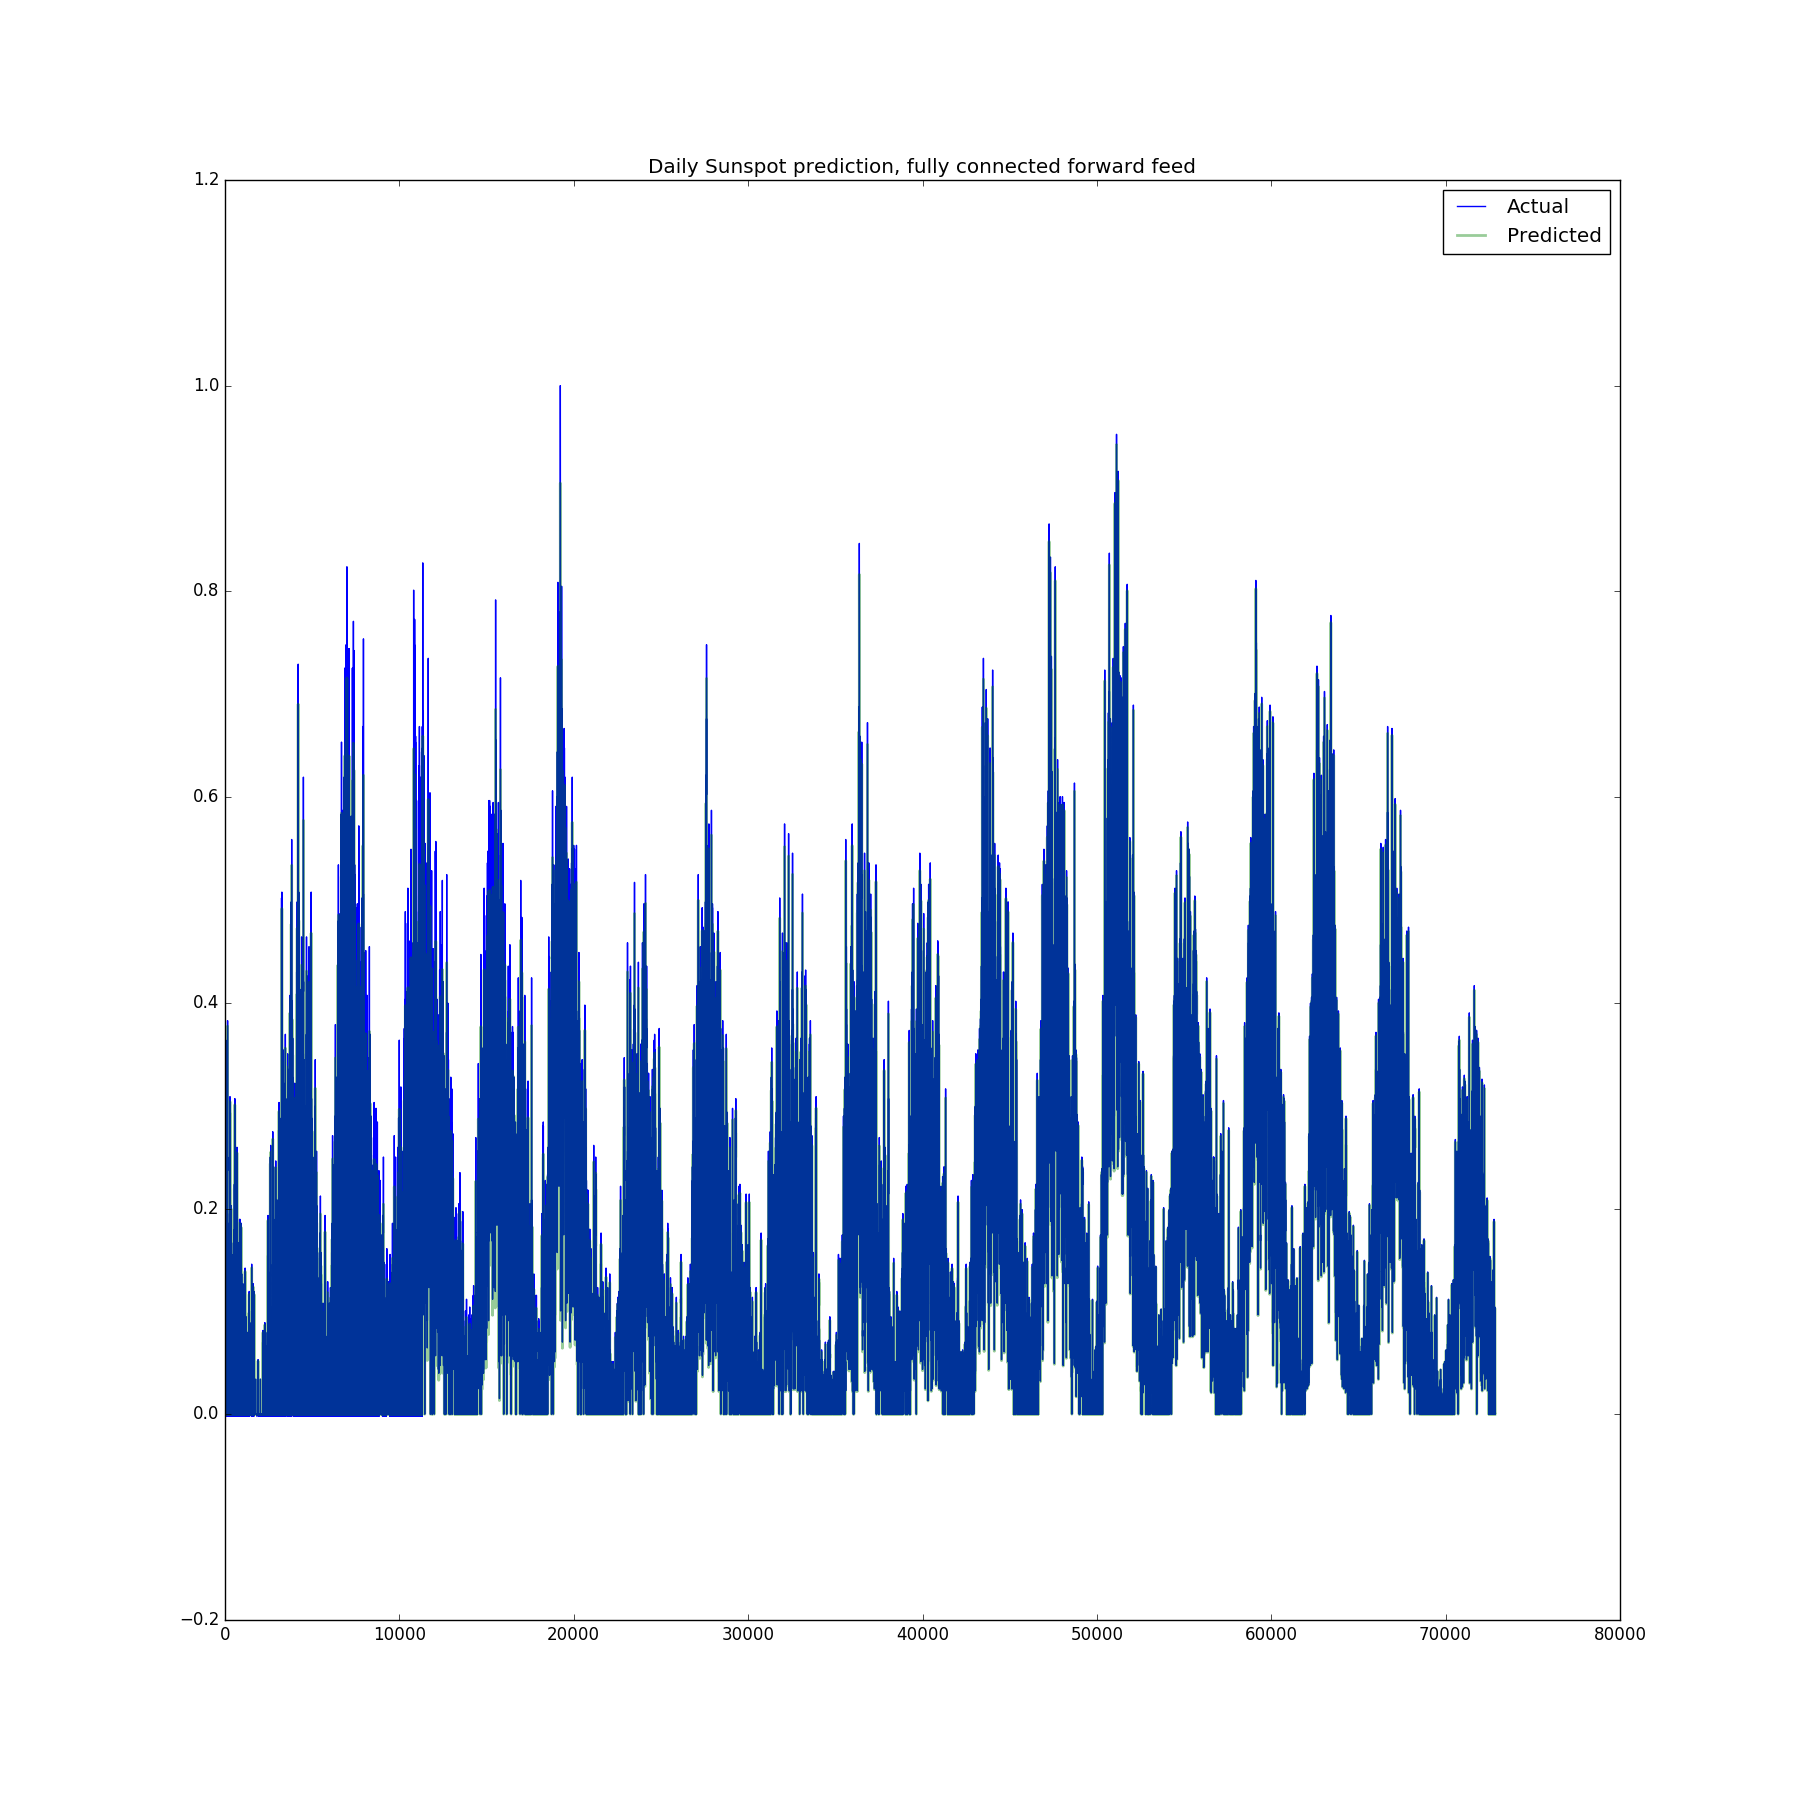
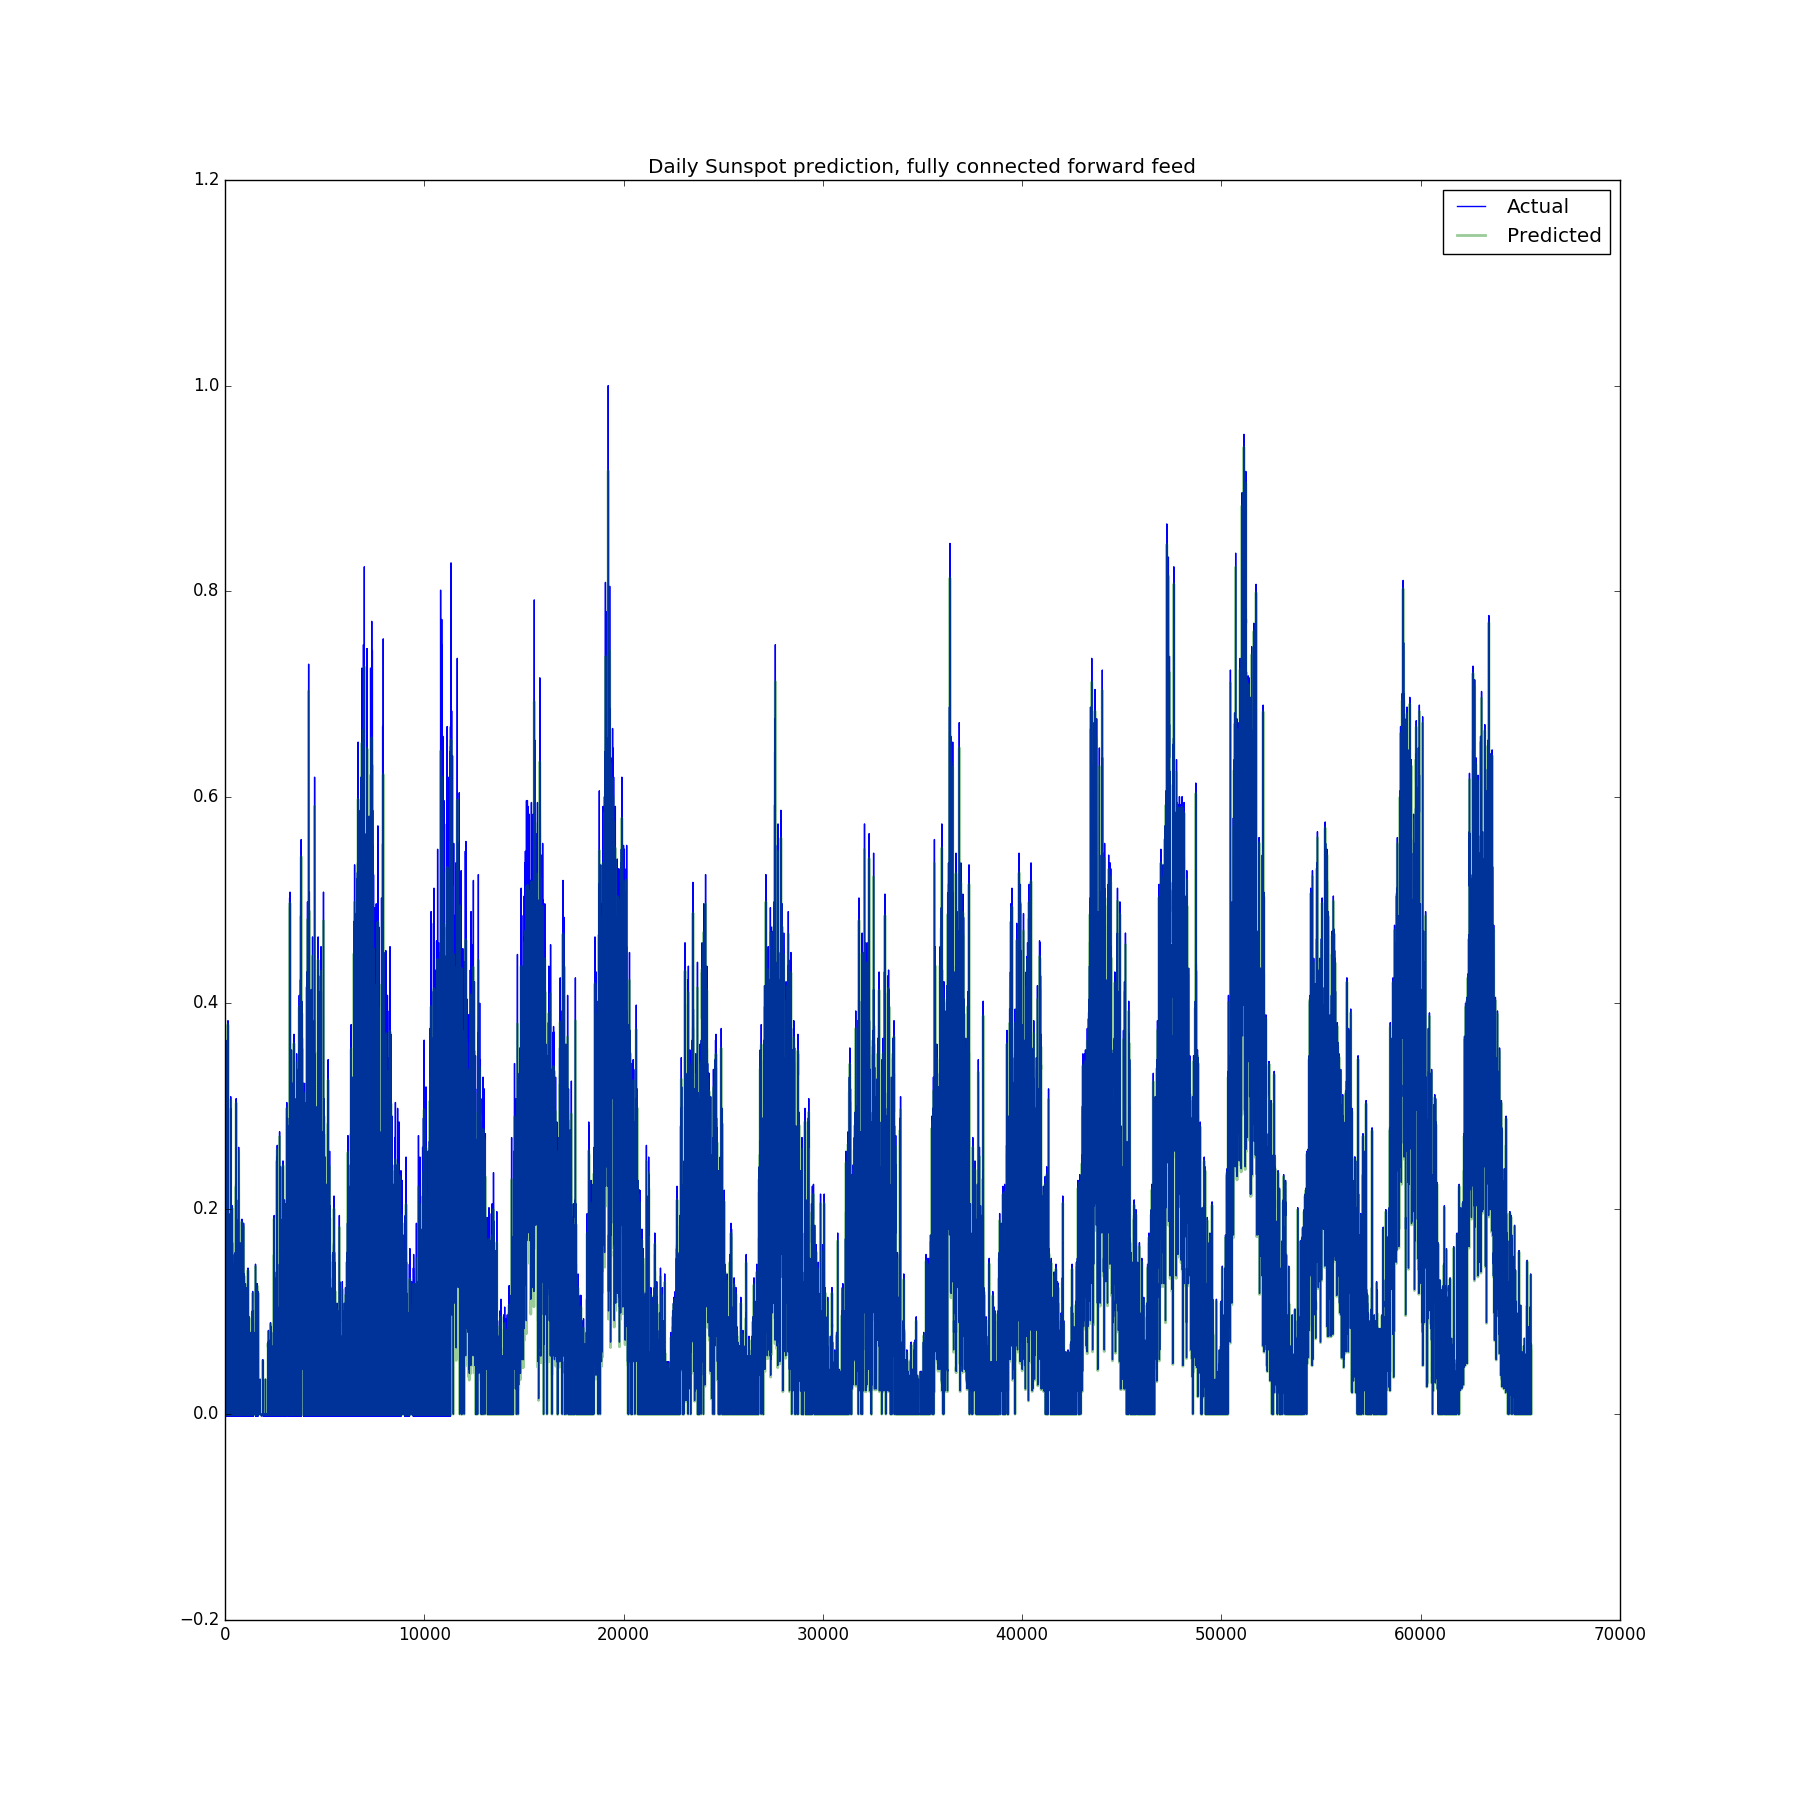
Model now has validation data and tests against it, works very well

diff --git a/SunspotsFull.py b/SunspotsFull.py
@@ -70,19 +70,19 @@ def read_data_file():
     data = data[['Sunspots']]
 
     # daily has 72,834 samples
-    weekly_data = data.resample('W').sum()      # 10406 samples
-    monthly_data = data.resample('M').sum()     # 2393
-    yearly_data = data.resample('A').sum()      # year end, 200 samples
-
+    #weekly_data = data.resample('W').sum()      # 10406 samples
+    #monthly_data = data.resample('M').sum()     # 2393
+    #yearly_data = data.resample('A').sum()      # year end, 200 samples
 
     # choose yearly, monthly, weekly or daily data
-    data = monthly_data
+    #data = weekly_data
 
     # scale data
     data['Sunspots'] = data['Sunspots'] / data['Sunspots'].max()
 
-    # weights equal to zero break network
+    # inputs equal to zero break network
     data['Sunspots'] += 0.0001
+
 
     '''
     # quick check on data
@@ -96,22 +96,36 @@ def read_data_file():
     plt.savefig("SunspotData.png")
     plt.show()
     '''
+
+    # pull out 10% of data for validation
+    n_valid = len(data) // 10
     
     # x is today's data, shift by 1 so y is next number in sequence
     x = data['Sunspots'].values
     y = data['Sunspots'].shift(1).values
 
+    
     # remove as many items as we've shifted from top of array
     x = np.delete(x, 0)
     y = np.delete(y, 0)
 
-    x = np.asarray(x.reshape(len(x)))
-    y = np.asarray(y.reshape(len(x)))
+    # split into training and validation sets
+    x_train = x[0:len(data)-n_valid]
+    y_train = y[0:len(data)-n_valid]
+    x_valid = x[len(x_train):-1]
+    y_valid = y[len(y_train):-1]
+    
+    #print(len(x_train), len(y_train), len(x_valid), len(y_valid))
 
-    return x.astype('float32'), y.astype('float32')
 
-x, y = read_data_file()
+    x = np.asarray(x_train.reshape(len(x_train)))
+    y = np.asarray(y_train.reshape(len(y_train)))
+    x_valid = np.asarray(x_valid.reshape(len(x_valid)))
+    y_valid = np.asarray(y_valid.reshape(len(y_valid)))
 
+    return x.astype('float32'), y.astype('float32'), x_valid.astype('float32'), y_valid.astype('float32')
+
+x, y, x_valid, y_valid = read_data_file()
 
 
 
@@ -223,17 +237,34 @@ class FullyConnected:
             costs.append(cost)
             
 
-          
         # graph to show accuracy progress - cost function should decrease
         plt.figure(figsize=(18,18))
         plt.plot(y, label='Actual')
-        plt.plot(predictions, label='Predicted', linewidth=2, alpha=0.5)
+        plt.plot(predictions, label='Predicted', linewidth=2, alpha=0.4)
         plt.legend(loc='best')
-        plt.title("Monthly Sunspot prediction, fully connected forward feed")
-        plt.savefig('monthly_sunspots.png')
+        plt.title("Daily Sunspot prediction, fully connected forward feed")
+        plt.savefig('daily_sunspots.png')
         plt.show()
         
 
+
+        
+        # predictions on unseen data
+        new_predictions = []
+        for k in range(len(x_valid)):
+            p = self.predict_op(x_valid[k])
+            new_predictions.append(p)
+
+
+        # plot predicitons on unseen data
+        plt.figure(figsize=(18,18))
+        plt.plot(y_valid, label='Actual')
+        plt.plot(new_predictions, label='Predicted', linewidth=2, alpha=0.4)
+        plt.legend(loc='best')
+        plt.title("Daily Sunspot prediction on unseen data, fully connected forward feed")
+        plt.savefig('daily_sunspots_validate_model.png')
+        plt.show()
+        
 
 network = FullyConnected()
 network.train(x, y)
